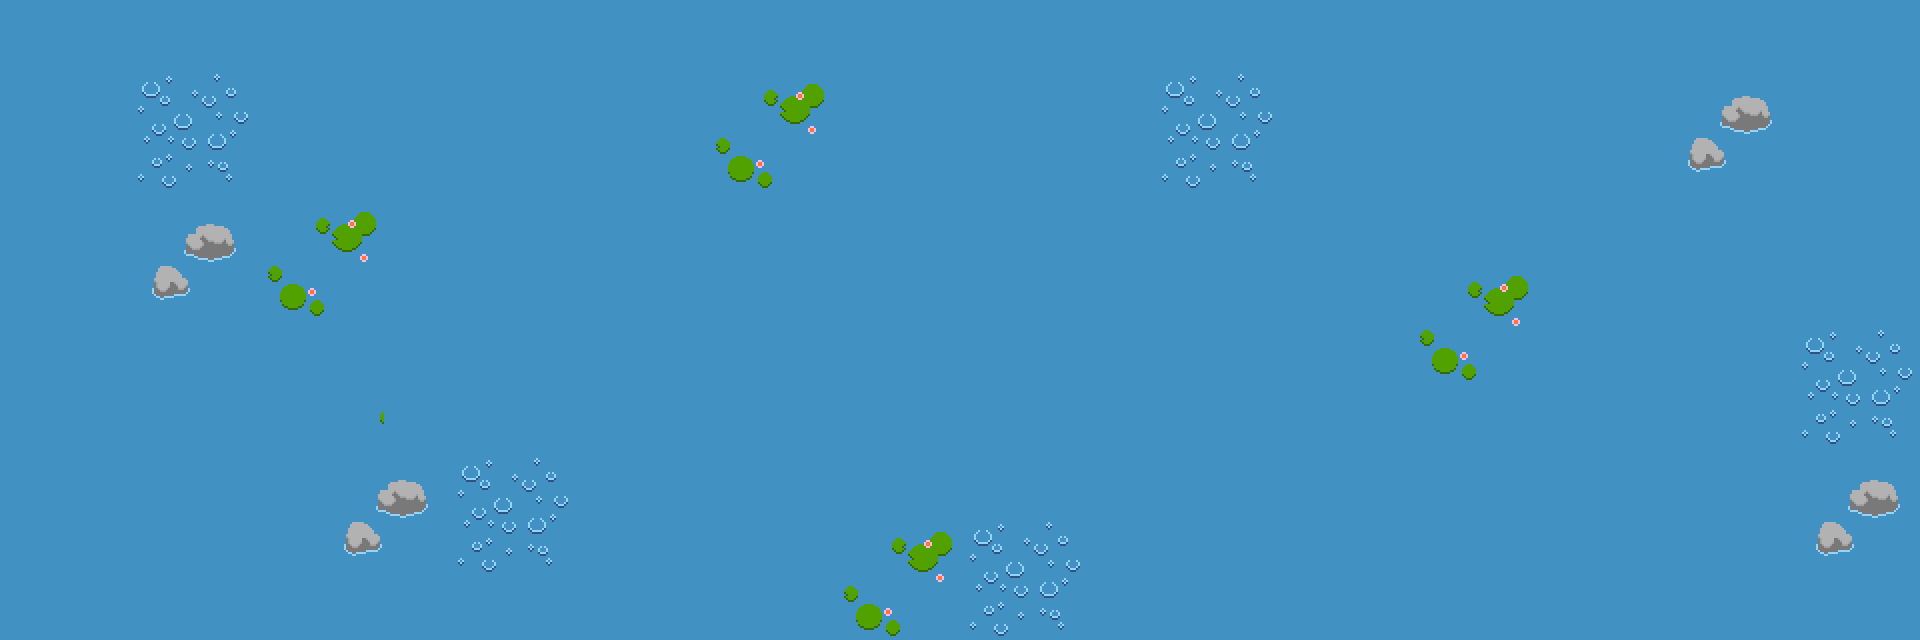
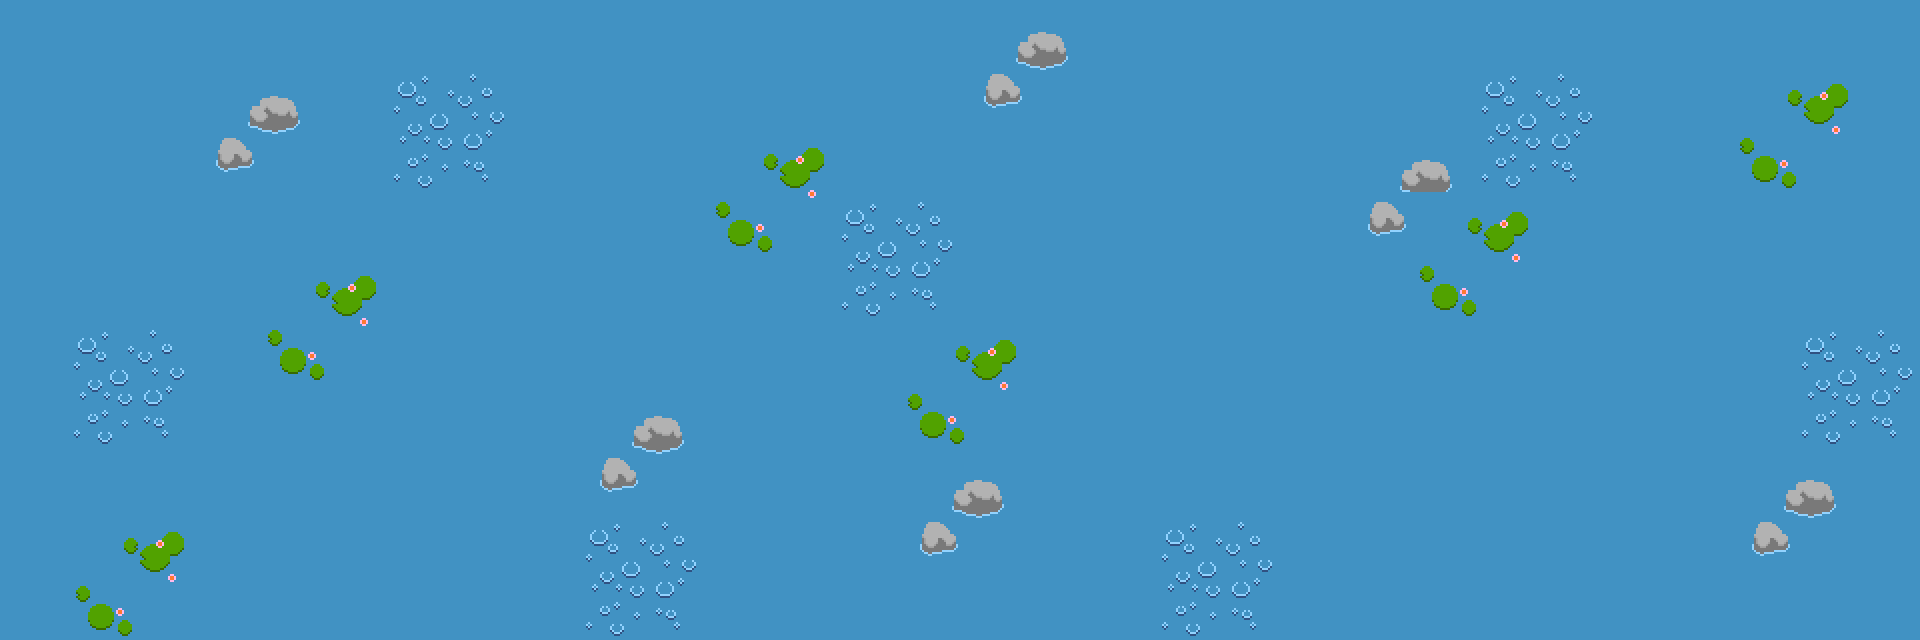
can move background

diff --git a/script.js b/script.js
@@ -54,6 +54,80 @@ c.fillRect(0, 0, canvas.width, canvas.height)
 const image = new Image()
 image.src = '/assets/map.png'
 
-image.onload = () => {
-    c.drawImage(image, 0, 0)
+class Sprite {
+    constructor({position, velocity, image}) {
+        this.position = position
+        this.image = image
+    }
+    draw() {
+        c.drawImage(this.image, this.position.x, this.position.y)
+    }
 }
+
+const background = new Sprite({
+    position: {
+        x: 0,
+        y: 0
+    },
+    image: image
+})
+
+const keys = {
+    w:{
+        pressed: false
+    },
+    a:{
+        pressed: false
+    },
+    s:{
+        pressed: false
+    },
+    d:{
+        pressed: false
+    }
+}
+
+function animate() {
+    window.requestAnimationFrame(animate)
+    background.draw()
+
+    if(keys.w.pressed) background.position.y += 3
+    else if(keys.a.pressed) background.position.x += 3
+    else if(keys.s.pressed) background.position.y -= 3
+    else if(keys.d.pressed) background.position.x -= 3
+}
+animate()
+
+window.addEventListener('keydown', (e) => {
+    switch(e.key) {
+        case 'w':
+            keys.w.pressed = true
+            break
+        case 'a':
+            keys.a.pressed = true
+            break
+        case 's':
+            keys.s.pressed = true
+            break
+        case 'd':
+            keys.d.pressed = true
+            break
+    }
+})
+
+window.addEventListener('keyup', (e) => {
+    switch(e.key) {
+        case 'w':
+            keys.w.pressed = false
+            break
+        case 'a':
+            keys.a.pressed = false
+            break
+        case 's':
+            keys.s.pressed = false
+            break
+        case 'd':
+            keys.d.pressed = false
+            break
+    }
+})

diff --git a/fishies.js b/fishies.js
@@ -1,0 +1,15 @@
+const fishies = [0, 0, 0, 0, 0, 0, 0, 0, 0, 0, 0, 0, 0, 0, 0, 0, 0, 0, 0, 0, 0, 0, 0, 0, 0, 0, 0, 0, 0, 0,
+    0, 0, 0, 0, 0, 0, 0, 0, 0, 0, 0, 0, 0, 0, 0, 0, 0, 0, 0, 0, 0, 0, 0, 0, 0, 0, 0, 0, 0, 0,
+    0, 0, 0, 0, 0, 0, 1, 0, 0, 0, 0, 0, 0, 0, 0, 0, 0, 0, 0, 0, 0, 0, 0, 1, 0, 0, 0, 0, 0, 0,
+    0, 0, 0, 0, 0, 0, 0, 0, 0, 0, 0, 0, 0, 0, 0, 0, 0, 0, 0, 0, 0, 0, 0, 0, 0, 0, 0, 0, 0, 0,
+    0, 0, 0, 0, 0, 0, 0, 0, 0, 0, 0, 0, 0, 1, 0, 0, 0, 0, 0, 0, 0, 0, 0, 0, 0, 0, 0, 0, 0, 0,
+    0, 0, 0, 0, 0, 0, 0, 0, 0, 0, 0, 0, 0, 0, 0, 0, 0, 0, 0, 0, 0, 0, 0, 0, 0, 0, 0, 0, 0, 0,
+    0, 1, 0, 0, 0, 0, 0, 0, 0, 0, 0, 0, 0, 0, 0, 0, 0, 0, 0, 0, 0, 0, 0, 0, 0, 0, 0, 0, 1, 0,
+    0, 0, 0, 0, 0, 0, 0, 0, 0, 0, 0, 0, 0, 0, 0, 0, 0, 0, 0, 0, 0, 0, 0, 0, 0, 0, 0, 0, 0, 0,
+    0, 0, 0, 0, 0, 0, 0, 0, 0, 0, 0, 0, 0, 0, 0, 0, 0, 0, 0, 0, 0, 0, 0, 0, 0, 0, 0, 0, 0, 0,
+    0, 0, 0, 0, 0, 0, 0, 0, 0, 1, 0, 0, 0, 0, 0, 0, 0, 0, 1, 0, 0, 0, 0, 0, 0, 0, 0, 0, 0, 0]
+
+const fishiesMap = []
+for (let i = 0; i < fishies.length; i+=30){
+    fishiesMap.push(fishies.slice(i, 30 + i))
+}

diff --git a/index.html b/index.html
@@ -12,6 +12,7 @@
         <div class="rectangle" id="rect"></div>
         <div class="target"></div>
         <div class="circle" id="circle"></div>
+        <script src="fishies.js"></script>
         <script src="script.js"></script>
     </body>
 </html>
